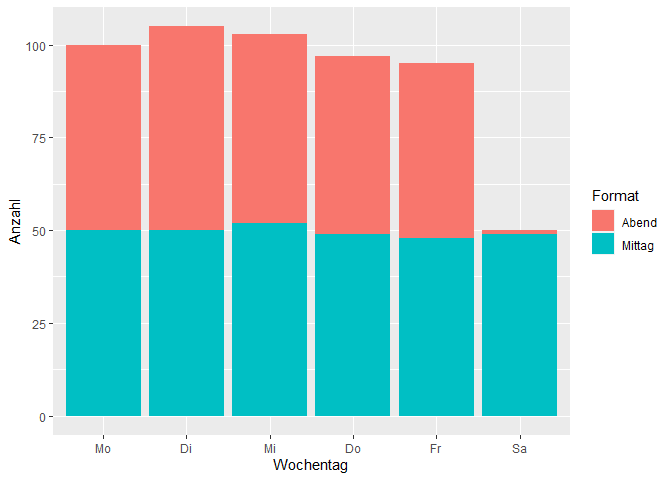
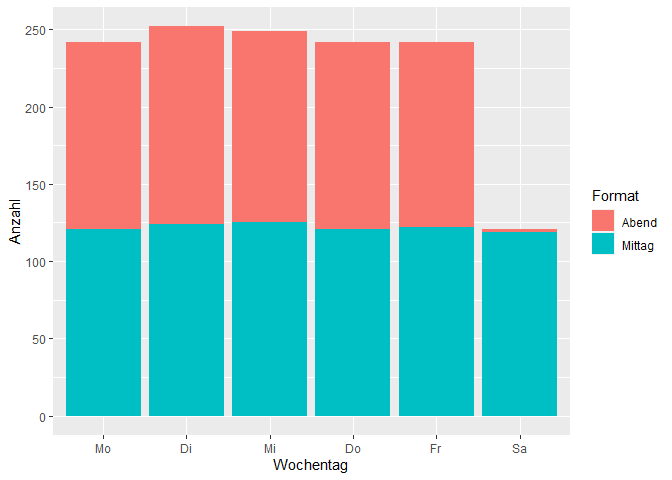
Update Analysis with new data

diff --git a/analysis.md b/analysis.md
@@ -18,19 +18,70 @@ library(lubridate)
 library(ggplot2)
 library(tidytext)
 library(tidyr)
+library(stringr)
+library(purrr)
 
 # Load data
-date_of_data_to_load <- "2021-10-05"
-load(file = paste0("data/", "news_", date_of_data_to_load, ".Rdata"))
+folder <- "data"
+files <- list.files(folder, pattern = ".Rdata", full.names = TRUE)
+
+loaded_data <- vector("list")
+for (file in files) {
+  load(file)
+  loaded_data[[file]] <- news  # Assuming the data frames are named "news"
+}
+
+news_raw <- map2(loaded_data, names(loaded_data), ~mutate(.x, source_file = .y)) %>% 
+  map(bind_rows) %>%
+  list_rbind()
 ```
 
 # Analysis
 
-The data collected from the webpage go from 2017-08-31 to 2021-10-05.
+The data collected from the webpage goes from 2017-08-31 to 2023-11-07.
+
+If we have a closer look on the URLs, we can see that every article has
+an identification number associated which comes after the `id=`
+parameter and at a similar position for each URL.
+
+``` r
+news <- news_raw %>% 
+  mutate(id = str_replace(Links, ".+id=(\\d+).*", "\\1"))
+news %>% select(id, Links) %>% head(3) %>% kable()
+```
+
+| id    | Links                                                                               |
+|:------|:------------------------------------------------------------------------------------|
+| 22060 | <https://dev2.sr-mediathek.sr-multimedia.de/index.php?seite=7&id=22060&pnr=&tbl=pf> |
+| 22045 | <https://dev2.sr-mediathek.sr-multimedia.de/index.php?seite=7&id=22045&pnr=&tbl=pf> |
+| 22030 | <https://dev2.sr-mediathek.sr-multimedia.de/index.php?seite=7&id=22030&pnr=&tbl=pf> |
+
+By clicking on a link, we also note, that many pages have gone offline
+already. Because we have scraped the page over time, we can now observe
+that a few articles have modified their news message afterwards.
+However, these were only minor changes.
+
+``` r
+news %>%
+  left_join(news, join_by(id), suffix = c("_Version_A", "_Version_B")) %>%
+  filter(Themen_Version_A != Themen_Version_B) %>% 
+  select(id, starts_with("Themen")) %>% 
+  distinct(id, .keep_all = TRUE) %>% 
+  kable()
+news_distinct <- news %>% distinct(id, .keep_all = TRUE)
+```
+
+| id    | Themen_Version_A                                                                                                                                                                                                           | Themen_Version_B                                                                                                                                                                                                             |
+|:------|:---------------------------------------------------------------------------------------------------------------------------------------------------------------------------------------------------------------------------|:-----------------------------------------------------------------------------------------------------------------------------------------------------------------------------------------------------------------------------|
+| 22060 | “Planer” der IS-Miliz in Afghanistan im Visier - USA fliegen Drohnenangriff / Trotz Terrorwarnung - Tausende Menschen versuchen Kabul zu verlassen und das Interview der Woche mit Jens Spahn, Bundesgesundheitsminister   | “Planer” der IS-Miliz in Afghanistan im Visier - USA fliegen Drohnenangriff / Trotz Terrorwarnung - Tausende Menschen versuchen Kabul zu verlassen / Interview der Woche mit Jens Spahn, Bundesgesundheitsminister (CDU)     |
+| 22080 | Gewagtes Schutzversprechen - Bisher nur 138 deutsche Ortskräfte ausgeflogen / Nach britischem Abzug - Kritik an Regierung Johnson / Die Preise steigen - wirklich nur vorübergehend? - Hohe Inflationsrate befürchtet      | Gewagtes Schutzversprechen - Bisher nur 138 deutsche Ortskräfte ausgeflogen / Nach britischem Abzug - Kritik an Regierung Johnson / Die Preise steigen - wirklich nur vorübergehend? Hohe Inflationsrate befürchtet          |
+| 22586 | Kommentar zum Ende der Sondierungsgespräche / Ab heute Kita-Lockerungen: Fluch und Segen / Pandora Papers: Warum funktionieren Briefkastenfirmen trotz Regulierung? / EU-Parlament verurteilt Belarus / Abholzung in Kongo | Kommentar zum Ende der Sondierungsgespräche / Ab heute Kita-Lockerungen - Fluch und Segen / Pandora Papers - Warum funktionieren Briefkastenfirmen trotz Regulierung? / EU-Parlament verurteilt Belarus / Abholzung in Kongo |
+
+Let’s examine the time frame covered by the articles.
 
 ``` r
 # Articles by month
-news %>%
+news_distinct %>%
   count(Monat = floor_date(Datum, "month"),
         name = "Artikelanzahl") %>%
   ggplot(aes(x = Monat, y = Artikelanzahl)) +
@@ -41,14 +92,20 @@ news %>%
 
 ![](analysis_files/figure-gfm/articles%20by%20month-1.png)<!-- -->
 
-Unfortunately, SR2 seems to have deleted their data or they simply did
-not upload their editions consequently before August 2020. Therefore, to
-not bias our analysis, the 10 articles from before August 2020 are
-deleted (listwise deletion, since these are just a few cases).
+Apparently our data shows two time periods that are uncovered. The first
+is before August 2020. Unfortunately, SR2 seems to have deleted their
+data or they simply did not upload their editions consequently before
+that date. Therefore, to not bias our analysis, the 50 articles from
+before August 2020 are deleted (listwise deletion, since these are just
+a few cases). Moreover, we identify a significant gap in information
+between February and November 2022. You see, behind this code there is a
+human and humans aren’t robots. Sometimes life throws in its own
+surprises and a unique blend of personal events turned me into something
+of a “human in vacation mode.” But I’m back in action now!😊
 
 ``` r
 # Listwise deletion
-news_clean <- news %>% filter(Datum >= "2020-08-01")
+news_clean <- news_distinct %>% filter(Datum >= "2020-08-01")
 ```
 
 We then observe, while Bilanz am Abend is published on weekdays, Bilanz
@@ -75,31 +132,43 @@ how many different spellings appear here.
 news_clean %>% distinct(Autor) %>% arrange(Autor)
 ```
 
-    ##                    Autor
-    ## 1          Florian Mayer
-    ## 2          Folrian Mayer
-    ## 3         Isabel Tentrup
-    ## 4       Isabell Tentrupp
-    ## 5       Isabelle Tentrup
-    ## 6       Îsabelle Tentrup
-    ## 7      Isabelle Tentrupp
-    ## 8           Janek Böffel
-    ## 9          Jochen Marmit
-    ## 10           Karin Mayer
-    ## 11           Kathrin Aue
-    ## 12            Katrin Aue
-    ## 13          Lisa Krauser
-    ## 14       Peter Weitzmann
-    ## 15      SR 2 Kulturradio
-    ## 16      SR 2 KulturRadio
-    ## 17         Stefan Deppen
-    ## 18        Stephan Deppen
-    ## 19       Stephan Deppenh
-    ## 20        Thomas Shihabi
-    ## 21        Thomas SHihabi
-    ## 22 Thomas Shihabi et al.
-    ## 23     Yvonne Scheinhege
-    ## 24    Yvonne Schleinhege
+    #>                                  Autor
+    #> 1                        Böffel, Janek
+    #> 2                        Florian Mayer
+    #> 3                        Folrian Mayer
+    #> 4                        Frank Hofmann
+    #> 5                   Gallmeyer, Kerstin
+    #> 6                       Isabel Tentrup
+    #> 7                     Isabell Tentrupp
+    #> 8                     Isabelle Tentrup
+    #> 9                    Isabelle Tentrupp
+    #> 10                        Janek Böffel
+    #> 11                       Jochem Marmit
+    #> 12                       Jochen Marmit
+    #> 13                         Karin Mayer
+    #> 14                         Kathrin Aue
+    #> 15                          Katrin Aue
+    #> 16            Katrin Aue, Janek Böffel
+    #> 17 Katrin AueFrankreich streikt weiter
+    #> 18                   Kerstin Gallmeyer
+    #> 19                        Lisa Krauser
+    #> 20                      Mayer, Florian
+    #> 21                     Michael Thieser
+    #> 22                     Peter Weitzmann
+    #> 23                    SR 2 KulturRadio
+    #> 24                    SR 2 Kulturradio
+    #> 25                        Sarah Sassou
+    #> 26                      Staphan Deppen
+    #> 27                       Stefan Deppen
+    #> 28                      Stephan Deppen
+    #> 29                     Stephan Deppenh
+    #> 30                      Thomas SHihabi
+    #> 31                      Thomas Shihabi
+    #> 32               Thomas Shihabi et al.
+    #> 33                   Yvonne Scheinhege
+    #> 34                  Yvonne Schleinhege
+    #> 35           Yvonne Schleinhege-Böffel
+    #> 36                    Îsabelle Tentrup
 
 Let’s head on to analyse the content and check which news appear within
 the daily news blocks.
@@ -129,37 +198,37 @@ news_clean_unnested %>%
   head(top_n_keywords)
 ```
 
-    ##           Wort Anzahl
-    ## 1       corona    243
-    ## 2           eu    110
-    ## 3     saarland     83
-    ## 4         lage     79
-    ## 5         neue     56
-    ## 6  afghanistan     54
-    ## 7    interview     52
-    ## 8   reaktionen     42
-    ## 9    bundestag     40
-    ## 10    lockdown     40
-    ## 11     debatte     38
-    ## 12         usa     38
-    ## 13        mehr     37
-    ## 14        wahl     37
-    ## 15       china     36
-    ## 16   kommentar     35
-    ## 17          us     34
-    ## 18 deutschland     30
-    ## 19       jahre     30
-    ## 20       woche     29
-    ## 21          ab     27
-    ## 22       spahn     26
-    ## 23  frankreich     25
-    ## 24   impfstoff     25
-    ## 25    aktuelle     24
-    ## 26        bund     24
-    ## 27       biden     23
-    ## 28      länder     23
-    ## 29      berlin     22
-    ## 30  diskussion     22
+    #>           Wort Anzahl
+    #> 1       corona    384
+    #> 2           eu    256
+    #> 3         lage    193
+    #> 4     saarland    176
+    #> 5    bundestag    123
+    #> 6    interview    122
+    #> 7      ukraine    110
+    #> 8         neue    108
+    #> 9        china     99
+    #> 10  reaktionen     97
+    #> 11 deutschland     96
+    #> 12       woche     87
+    #> 13     debatte     83
+    #> 14   kommentar     82
+    #> 15        mehr     80
+    #> 16      israel     75
+    #> 17 afghanistan     74
+    #> 18  frankreich     74
+    #> 19       jahre     73
+    #> 20         usa     73
+    #> 21          us     71
+    #> 22        wahl     71
+    #> 23      gipfel     68
+    #> 24      berlin     67
+    #> 25         cdu     65
+    #> 26    russland     63
+    #> 27        geht     62
+    #> 28     treffen     61
+    #> 29         afd     58
+    #> 30    aktuelle     58
 
 We see, Corona clearly dominated the news and also EU related topics
 were discussed. Since SR2 is a regional broadcasting station, we also
@@ -176,10 +245,10 @@ news_clean_unnested %>%
   head(3)
 ```
 
-    ##                  Wort Anzahl
-    ## 1              corona    243
-    ## 2 US_keywords_summary    114
-    ## 3                  eu    110
+    #>                  Wort Anzahl
+    #> 1              corona    384
+    #> 2 US_keywords_summary    259
+    #> 3                  eu    256
 
 On top of the list we also find Afghanistan, which might have entered
 the daily news just recently. Let’s confirm this statement with the data
@@ -189,7 +258,7 @@ and print keywords over time.
 
 ``` r
 # Select keywords
-keywords <- c("lockdown", "corona", "afghanistan", "kabul")
+keywords <- c("lockdown", "corona", "afghanistan", "kabul", "ukraine", "russland", "gaza", "israel", "china", "türkei", "italien", "usa", "selenskyj")
 
 # Selected keywords over time
 news_clean_unnested %>% 
@@ -204,6 +273,7 @@ news_clean_unnested %>%
     fill = list(Anzahl = 0)) %>% 
   ggplot(aes(x = Monat, y = Anzahl, color = Wort)) +
   geom_line(size = 1) +
+  facet_wrap(~Wort) +
   scale_x_date(breaks = "1 month") +
   theme(axis.text.x = element_text(angle = 75, vjust = 0.58))
 ```
